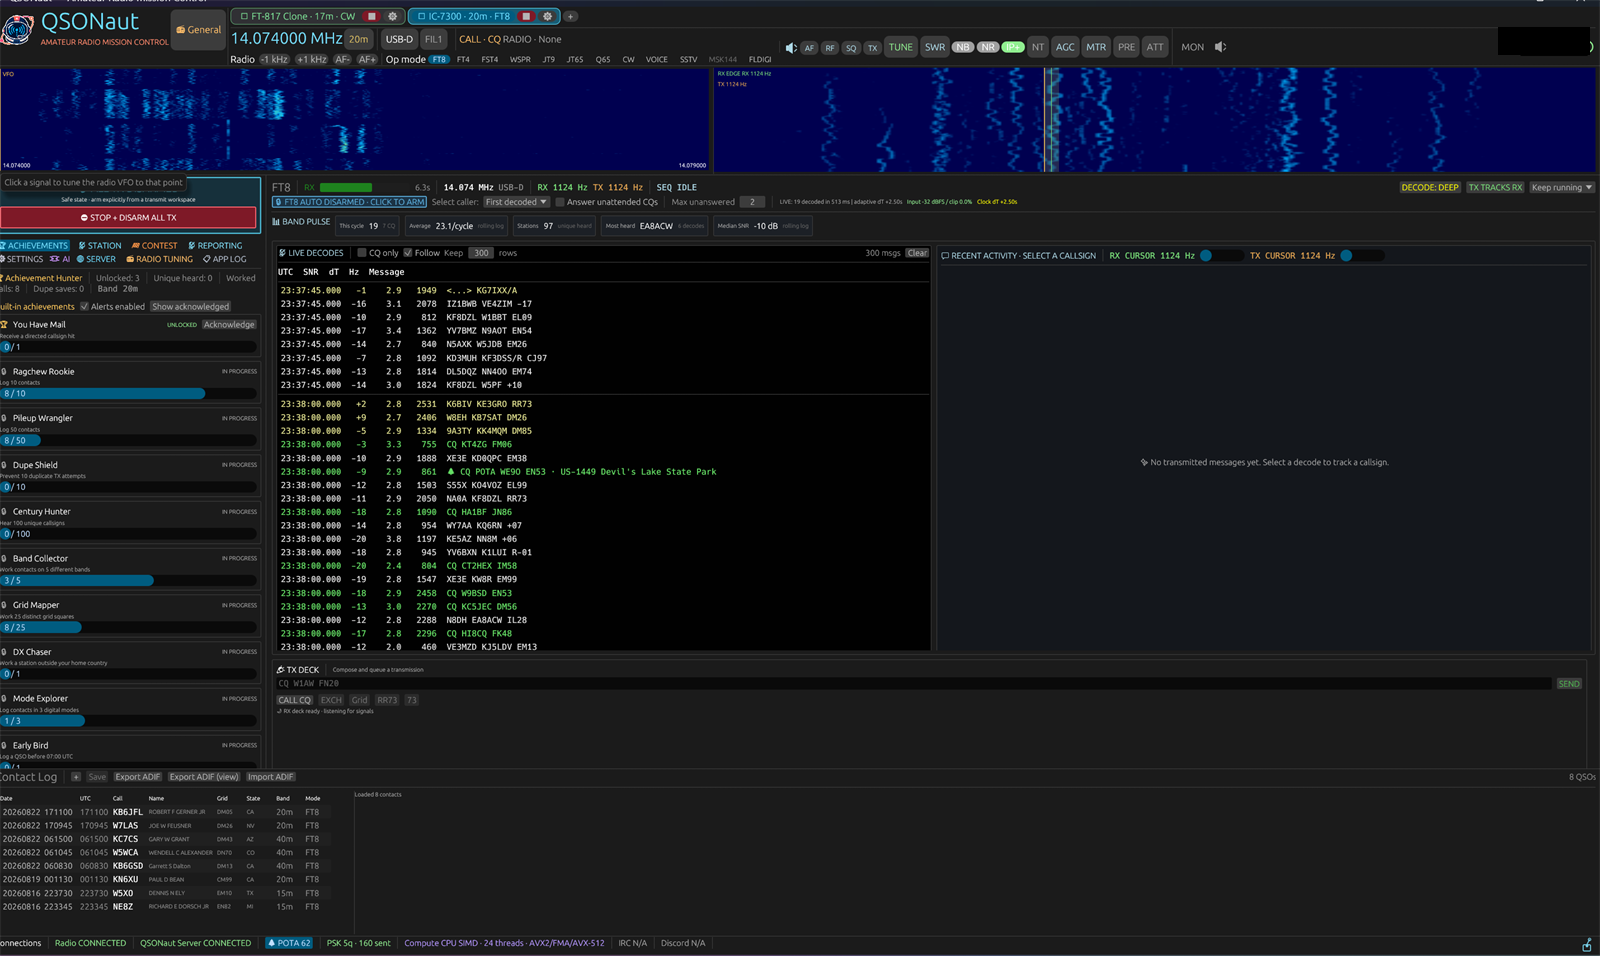
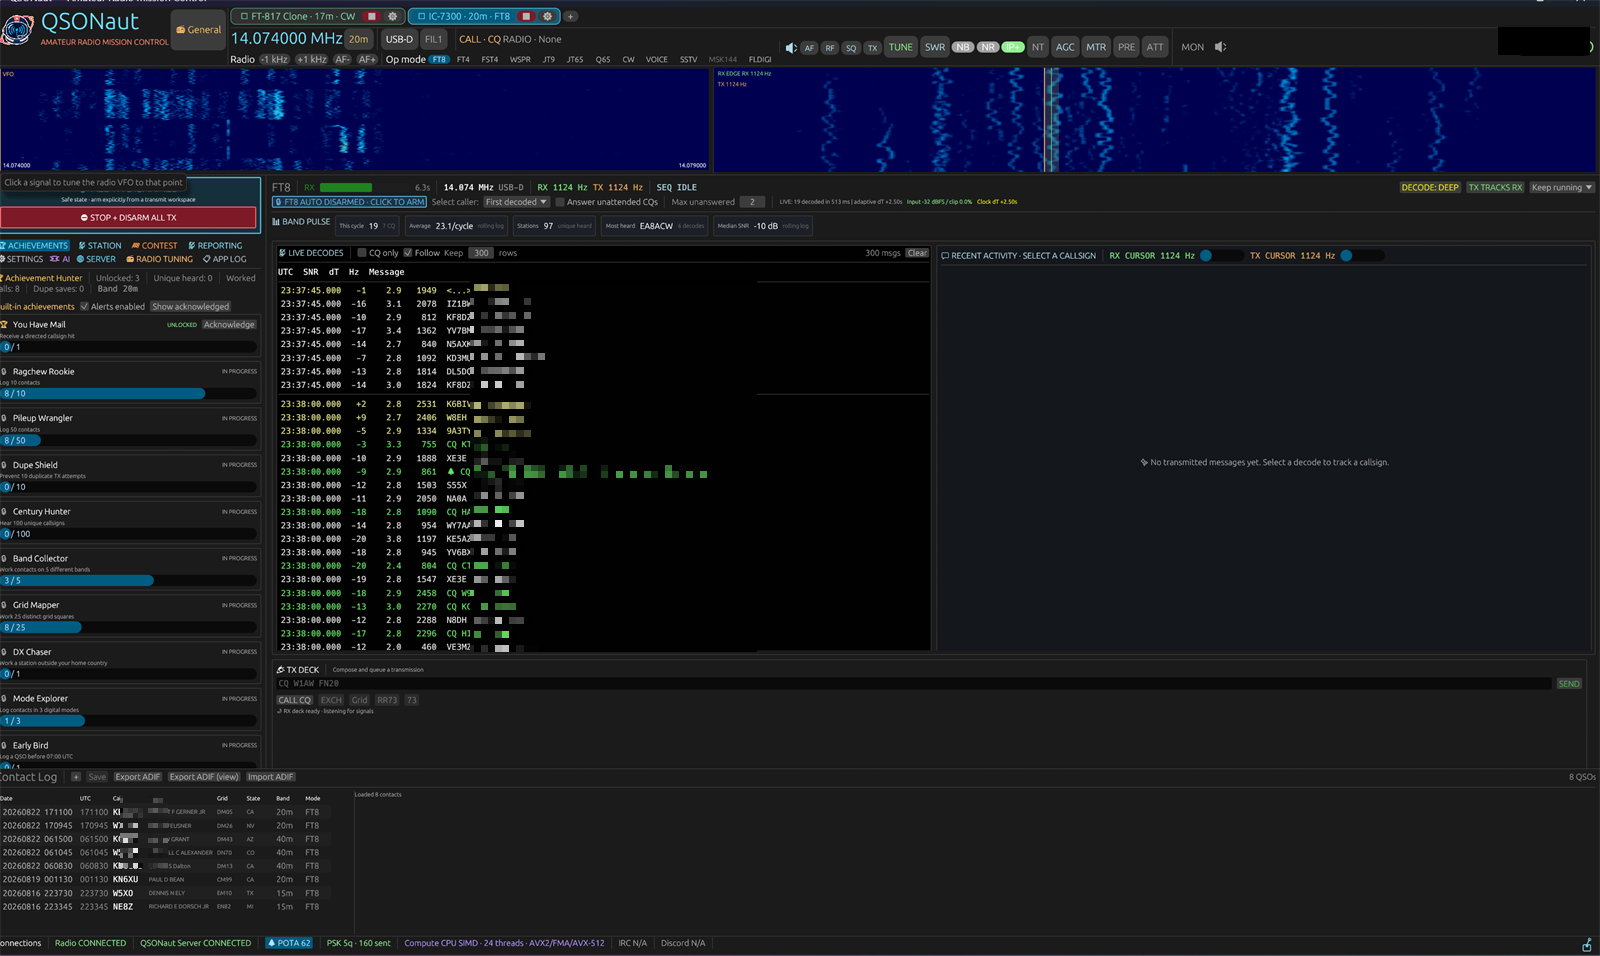
docs: blur visible callsign suffixes

Changed region(s): [[0.2812, 0.273, 0.4375, 0.6977], [0.0625, 0.8494, 0.0938, 0.91]]

diff --git a/README.md b/README.md
@@ -24,7 +24,7 @@ Rust desktop app.
 <p align="center">
   <img src="assets/main-screen.png" alt="QSONaut radio-console interface with station identity redacted">
   <br>
-  <em>QSONaut radio console on Linux/WSL. The station identity in the overview banner is redacted.</em>
+  <em>QSONaut radio console on Linux/WSL. The station identity is redacted and visible callsign suffixes are blurred.</em>
 </p>
 
 <p align="center">
